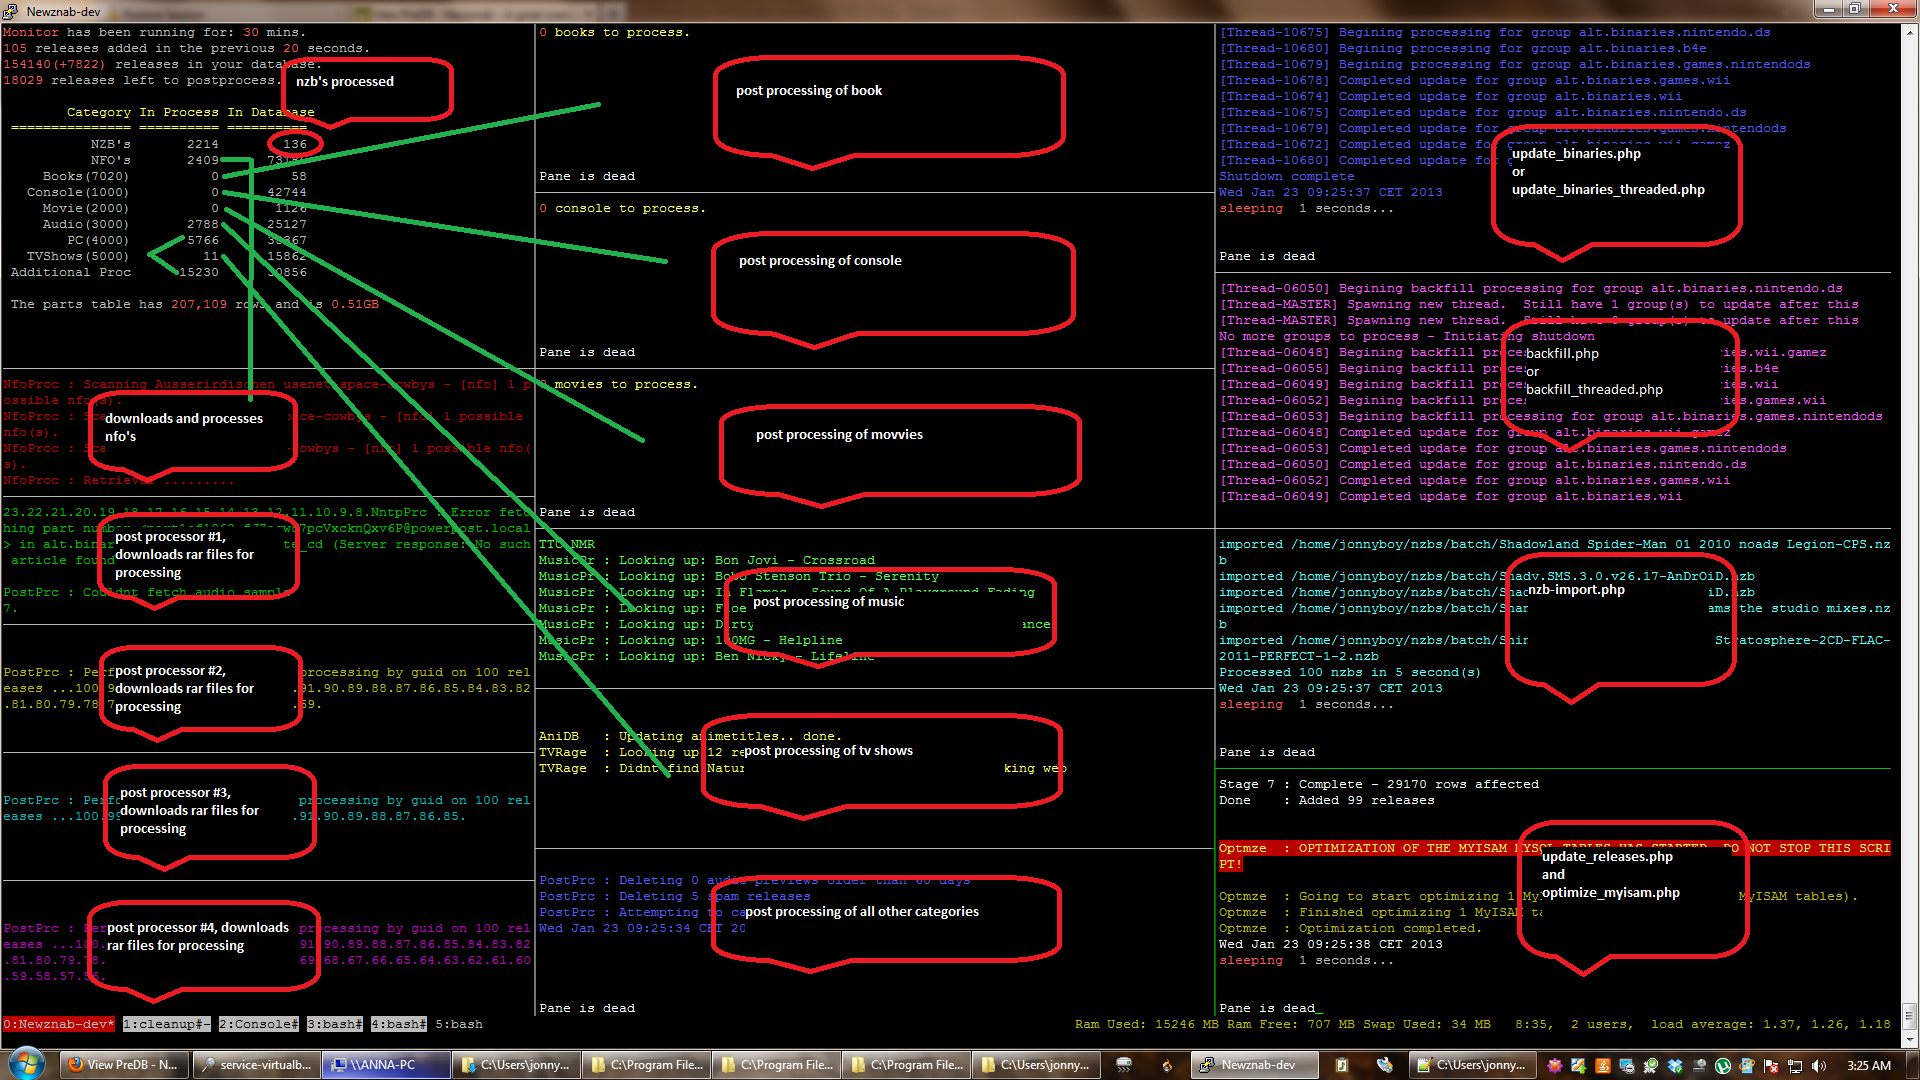
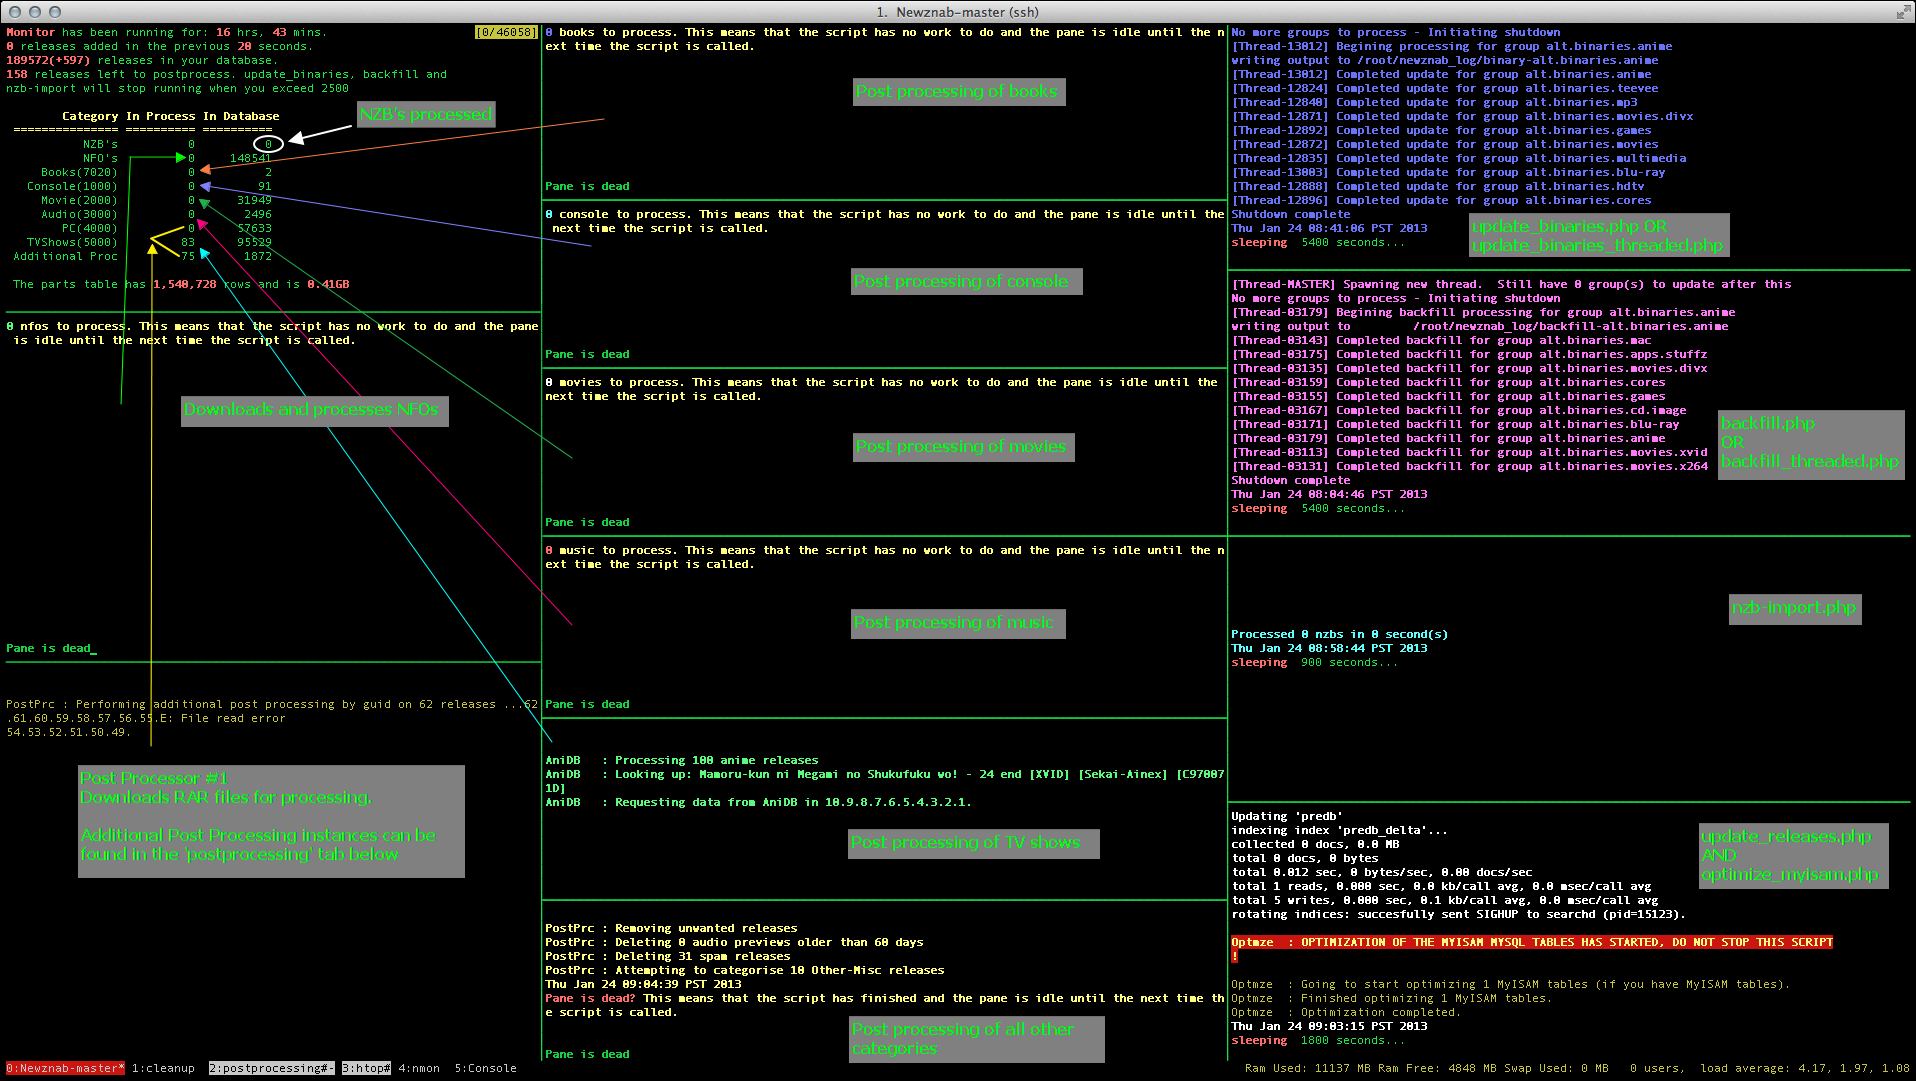
changed pic and a few minor tweaks

Changed region(s): [[0.0, 0.0, 1.0, 1.0], [0.8314, 0.6111, 0.893, 0.6417]]

diff --git a/bin/nzb-importonenzb.php b/bin/nzb-importonenzb.php
@@ -1,0 +1,213 @@
+<?php
+
+//This id a modified copy of nzb-import.php, to run this you need to copy it to your /www/admin folder. This script will only import 100 nzb's at a time.
+//The idea is that you can call this script from your update script every run, and your import will go smooth without babysitting. 
+
+require_once("config.php");
+require_once(WWW_DIR."/lib/adminpage.php");
+require_once(WWW_DIR."/lib/framework/db.php");
+$db = new DB();
+$using_cli = false;
+
+if (empty($argc))
+{
+	$page = new AdminPage();
+}
+elseif ($argc == 1)
+{
+	echo "no arguments specified - php nzb-import.php /path/to/nzb bool_use_filenames\n";
+	return;
+}	
+else
+{
+	$using_cli = true;
+}
+
+$filestoprocess = Array();
+$browserpostednames = Array();
+
+if ($using_cli || $page->isPostBack() )
+{
+	$retval = "";	
+
+	//
+	// Via browser, build an array of all the nzb files uploaded into php /tmp location
+	//	
+	if (isset($_FILES["uploadedfiles"]))
+	{
+		foreach ($_FILES["uploadedfiles"]["error"] as $key => $error)
+		{
+			if ($error == UPLOAD_ERR_OK)
+			{
+				$tmp_name = $_FILES["uploadedfiles"]["tmp_name"][$key];
+				$name = $_FILES["uploadedfiles"]["name"][$key];
+				$filestoprocess[] = $tmp_name;
+				$browserpostednames[$tmp_name] = $name;
+			}
+		}
+	}
+
+	if ($using_cli)
+	{
+		$strTerminator = "\n";
+		$path = $argv[1];
+		$usenzbname = (isset($argv[2]) && $argv[2] == 'true') ? true : false;
+	}
+	else		
+	{
+		$strTerminator = "<br />";
+		$path = (isset($_POST["folder"]) ? $_POST["folder"] : "");
+		$usenzbname = (isset($_POST['usefilename']) && $_POST["usefilename"] == 'on') ? true : false;
+	}
+		
+	if (substr($path, strlen($path) - 1) != '/')
+		$path = $path."/";
+
+	$groups = $db->query("SELECT ID, name FROM groups");
+	foreach ($groups as $group)
+		$siteGroups[$group["name"]] = $group["ID"];
+
+	if (!isset($groups) || count($groups) == 0)
+	{
+		if ($using_cli)
+			echo "no groups available in the database, add first.\n";
+		else
+			$retval.= "no groups available in the database, add first.".$strTerminator;
+	}
+	else
+	{	
+		$nzbCount = 0;
+	
+		//
+		// read from the path, if no files submitted via the browser
+		//		
+		if (count($filestoprocess) == 0)
+			$filestoprocess = glob($path."*.nzb"); 
+		$start=date('Y-m-d H:i:s');
+		
+		foreach($filestoprocess as $nzbFile) 
+		{
+			$importfailed = false;
+			$nzb = file_get_contents($nzbFile);
+			
+			$xml = @simplexml_load_string($nzb);
+			if (!$xml || strtolower($xml->getName()) != 'nzb') 
+			{
+				continue;
+			}
+
+			$i=0;
+			foreach($xml->file as $file) 
+			{
+				//file info
+				$groupID = -1;
+				$name = (string)$file->attributes()->subject;
+				$fromname = (string)$file->attributes()->poster;
+				$unixdate = (string)$file->attributes()->date;
+				$date = date("Y-m-d H:i:s", (string)$file->attributes()->date);
+				
+				//groups
+				$groupArr = array();
+				foreach($file->groups->group as $group) 
+				{
+					$group = (string)$group;
+					if (array_key_exists($group, $siteGroups)) 
+					{
+						$groupID = $siteGroups[$group];
+					}
+					$groupArr[] = $group;
+				}
+				
+				if ($groupID != -1)
+				{
+					$xref = implode(': ', $groupArr).':';
+							
+					$totalParts = sizeof($file->segments->segment);
+					
+					//insert binary
+					$binaryHash = md5($name.$fromname.$groupID);
+					$binarySql = sprintf("INSERT INTO binaries (name, fromname, date, xref, totalParts, groupID, binaryhash, dateadded, importname) values (%s, %s, %s, %s, %s, %s, %s, NOW(), %s)", 
+							$db->escapeString($name), $db->escapeString($fromname), $db->escapeString($date),
+							$db->escapeString($xref), $db->escapeString($totalParts), $db->escapeString($groupID), $db->escapeString($binaryHash), $db->escapeString($nzbFile) );
+					
+					$binaryId = $db->queryInsert($binarySql);
+					
+					if ($usenzbname) 
+					{
+						$usename = str_replace('.nzb', '', (!$using_cli ? $browserpostednames[$nzbFile] : basename($nzbFile)));
+						
+						$db->query(sprintf("update binaries set relname = replace(%s, '_', ' '), relpart = %d, reltotalpart = %d, procstat=%d, categoryID=%s, regexID=%d, reqID=%s where ID = %d", 
+							$db->escapeString($usename), 1, 1, 5, "null", "null", "null", $binaryId));
+					}
+					
+					//segments (i.e. parts)
+					if (count($file->segments->segment) > 0)
+					{
+						$partsSql = "INSERT INTO parts (binaryID, messageID, number, partnumber, size, dateadded) values ";
+						foreach($file->segments->segment as $segment) 
+						{
+							$messageId = (string)$segment;
+							$partnumber = $segment->attributes()->number;
+							$size = $segment->attributes()->bytes;
+							
+							$partsSql .= sprintf("(%s, %s, 0, %s, %s, NOW()),", 
+									$db->escapeString($binaryId), $db->escapeString($messageId), $db->escapeString($partnumber), 
+									$db->escapeString($size));
+						}
+						$partsSql = substr($partsSql, 0, -1);
+						$partsQuery = $db->queryInsert($partsSql);
+					}
+				}
+				else
+				{
+					$importfailed = true;
+					if ($using_cli)
+					{
+						echo ("no group found for ".$name." (one of ".implode(', ', $groupArr)." are missing)".$strTerminator);
+						flush();
+					}
+					else
+					{
+						$retval.= "no group found for ".$name." (one of ".implode(', ', $groupArr)." are missing)".$strTerminator;
+					}
+					break;
+				}
+			}
+			
+			if (!$importfailed)
+			{
+				$nzbCount++;
+				@unlink($nzbFile);
+
+				if ($using_cli)
+				{
+					echo ("imported ".$nzbFile.$strTerminator);
+					flush();
+				}
+				else
+				{
+					$retval.= "imported ".$nzbFile.$strTerminator;
+				}
+			}
+			if ($nzbCount == 10)
+			{
+			break;
+			}
+		}
+	}
+	$seconds = strtotime(date('Y-m-d H:i:s')) - strtotime($start);
+	$retval.= 'Processed '.$nzbCount.' nzbs in '.$seconds.' second(s)';
+
+	if ($using_cli)
+	{
+		echo $retval;
+		die();
+	}
+	
+	$page->smarty->assign('output', $retval);	
+}
+
+$page->title = "Import Nzbs";
+$page->content = $page->smarty->fetch('nzb-import.tpl');
+$page->render();
+

diff --git a/bin/monitor.php b/bin/monitor.php
@@ -54,7 +54,8 @@ $releases_start = $releases_start[0]['cnt'];
 //environment
 $_DB_USER = getenv('DB_USER');
 $_DB_HOST = getenv('DB_HOST');
-$_DB_PASSWORD = getenv('DB_PASSWORD');
+//$_DB_PASSWORD = getenv('DB_PASSWORD');
+$_DB_PASSWORD = escapeshellarg(getenv('DB_PASSWORD'));
 $_DB_NAME = getenv('DB_NAME');
 $_backfill = getenv('BACKFILL');
 $_binaries = getenv('BINARIES');
@@ -62,6 +63,7 @@ $_import = getenv('IMPORT');
 $_cleanup = getenv('CLEANUP');
 $_parsing = getenv('PARSING');
 $_optimise = getenv('OPTIMISE');
+$_nzbmulti = getenv('NZBMULTI');
 //$_inno_test = shell_exec('svn info /var/www/newznab | grep inno');
 
 $_admin_path = getenv('ADMIN_PATH');
@@ -212,6 +214,10 @@ while($i>0)
   $parts_rows = number_format("$parts_rows");
   printf("\n \033[0mThe parts table has \033[1;31m$parts_rows\033[0m rows and is \033[1;31m$parts_size_gb\n");
 
+  if ($i==1) {
+    sleep(10);
+  }
+
   //run update_predb.php in 1.0 ever 15 minutes
   if ((TIME() - $time2) >= 900 ) {
     shell_exec("$_tmux respawnp -t $_tmux_session:1.0 'echo \"\033[1;31m\" && cd $_newznab_path && $_php update_predb.php true && date && echo \"$_string\"' 2>&1 1> /dev/null");
@@ -299,6 +305,11 @@ while($i>0)
     $_backfill_cmd = 'backfill.php';
     $_update_cmd = 'update_binaries.php';
   }
+  if ( $_nzbmulti == "true" ){
+    $nzb_cmd = "$_php nzb-import-sub.php \"$_nzbs\"";
+  } else {
+    $nzb_cmd = "$_php nzb-import.php \"$_nzbs\" true";
+  }
 
   if ( $_binaries == "true" ) {
     if (( $total_work_now < $_max_releases ) || ( $_max_releases == 0 )) {
@@ -320,13 +331,13 @@ while($i>0)
 
   if ( $_import == "true" ) {
     if (( $total_work_now < $_import_max_releases ) || ( $_import_max_releases == 0 )) {
-      shell_exec("$_tmux respawnp -t $_tmux_session:0.11 'echo \"\033[1;36m\" && cd bin && $_php nzb-import.php \"$_nzbs\" true && echo \" \" && date && echo \"$_sleep_string $_import_sleep seconds...\" && sleep $_import_sleep && echo \"$_string\"' 2>&1 1> /dev/null");
+      shell_exec("$_tmux respawnp -t $_tmux_session:0.11 'echo \"\033[1;36m\" && cd bin && $nzb_cmd && echo \" \" && date && echo \"$_sleep_string $_import_sleep seconds...\" && sleep $_import_sleep && echo \"$_string\"' 2>&1 1> /dev/null");
     } else {
       shell_exec("$_tmux respawnp -t $_tmux_session:0.11 'echo \"\n$_string2\"' 2>&1 1> /dev/null");
     }
   }
   if (( $_optimise == "true" ) && ( ($i % 5) == 0 )) {
-    shell_exec("$_tmux respawnp -t $_tmux_session:0.12 'echo \"\033[1;37m\" && cd $_newznab_path && $_php update_releases.php && cd $_current_path && $_php optimize_myisam.php && ./mem_usage.sh && date && echo \"$_sleep_string $_rel_sleep seconds...\" && sleep $_rel_sleep && echo \"$_string\"' 2>&1 1> /dev/null");
+    shell_exec("$_tmux respawnp -t $_tmux_session:0.12 'echo \"\033[1;37m\" && cd $_newznab_path && $_php update_releases.php && cd $_current_path && $_php optimize_myisam.php && date && echo \"$_sleep_string $_rel_sleep seconds...\" && sleep $_rel_sleep && echo \"$_string\"' 2>&1 1> /dev/null");
   } else {
     shell_exec("$_tmux respawnp -t $_tmux_session:0.12 'echo \"\033[1;37m\" && cd $_newznab_path && $_php update_releases.php && cd $_current_path && ./mem_usage.sh && date && echo \"$_sleep_string $_rel_sleep seconds...\" && sleep $_rel_sleep && echo \"$_string\"' 2>&1 1> /dev/null");
   }

diff --git a/bin/nzb-import-sub.php b/bin/nzb-import-sub.php
@@ -1,0 +1,66 @@
+<?php
+require_once("config.php");
+require_once(WWW_DIR.'/lib/powerprocess.php');
+$dirroot = $argv[1];
+$subdirs = array_filter(glob($dirroot."/*"), 'is_dir');
+$subdir_count = 0;
+
+foreach($subdirs AS $subdir){
+	$filecount = count(glob($subdir."/*.nzb"));
+	if($filecount > 0){
+		echo "Directory {$subdir} contains {$filecount} nzb's.\n";
+		$subdir_count++;
+	}
+}
+
+if($subdir_count == 0){
+	echo "Nothing to import, sub-directories are empty or there are no sub-directories to process.\n";
+	die();
+}
+
+$ps = new PowerProcess;
+$ps->RegisterCallback('psUpdateComplete');
+$ps->maxThreads = 20;
+$ps->threadTimeLimit = 0;
+$selected = $subdir_count-1;
+
+echo "Starting threaded import process\n";
+
+while ($ps->RunControlCode()) 
+{
+	if ($selected >= 0)
+	{
+		if ($ps->SpawnReady()) 
+		{
+			$ps->threadData = $subdirs[$selected]."/";
+			$ps->spawnThread();
+				} 
+	} 
+	else 
+	{
+		$ps->Shutdown();
+	}
+$selected--;
+}
+
+if ($ps->RunThreadCode())
+{
+	$subdir = $ps->threadData;
+	$thread = sprintf("%05d",$ps->GetPID());
+
+	$dir = dirname(__FILE__);
+	$file = 'nzb-importonenzb.php';
+	$output = shell_exec("php {$dir}/{$file} {$subdir} true");
+
+	echo "[Thread-{$thread}] Completed importing from {$subdir}\n";
+}
+exit(0);
+
+
+function psUpdateComplete()
+{
+	echo "[Thread-MASTER] The threaded import process has completed.\n";
+}
+
+?>
+
